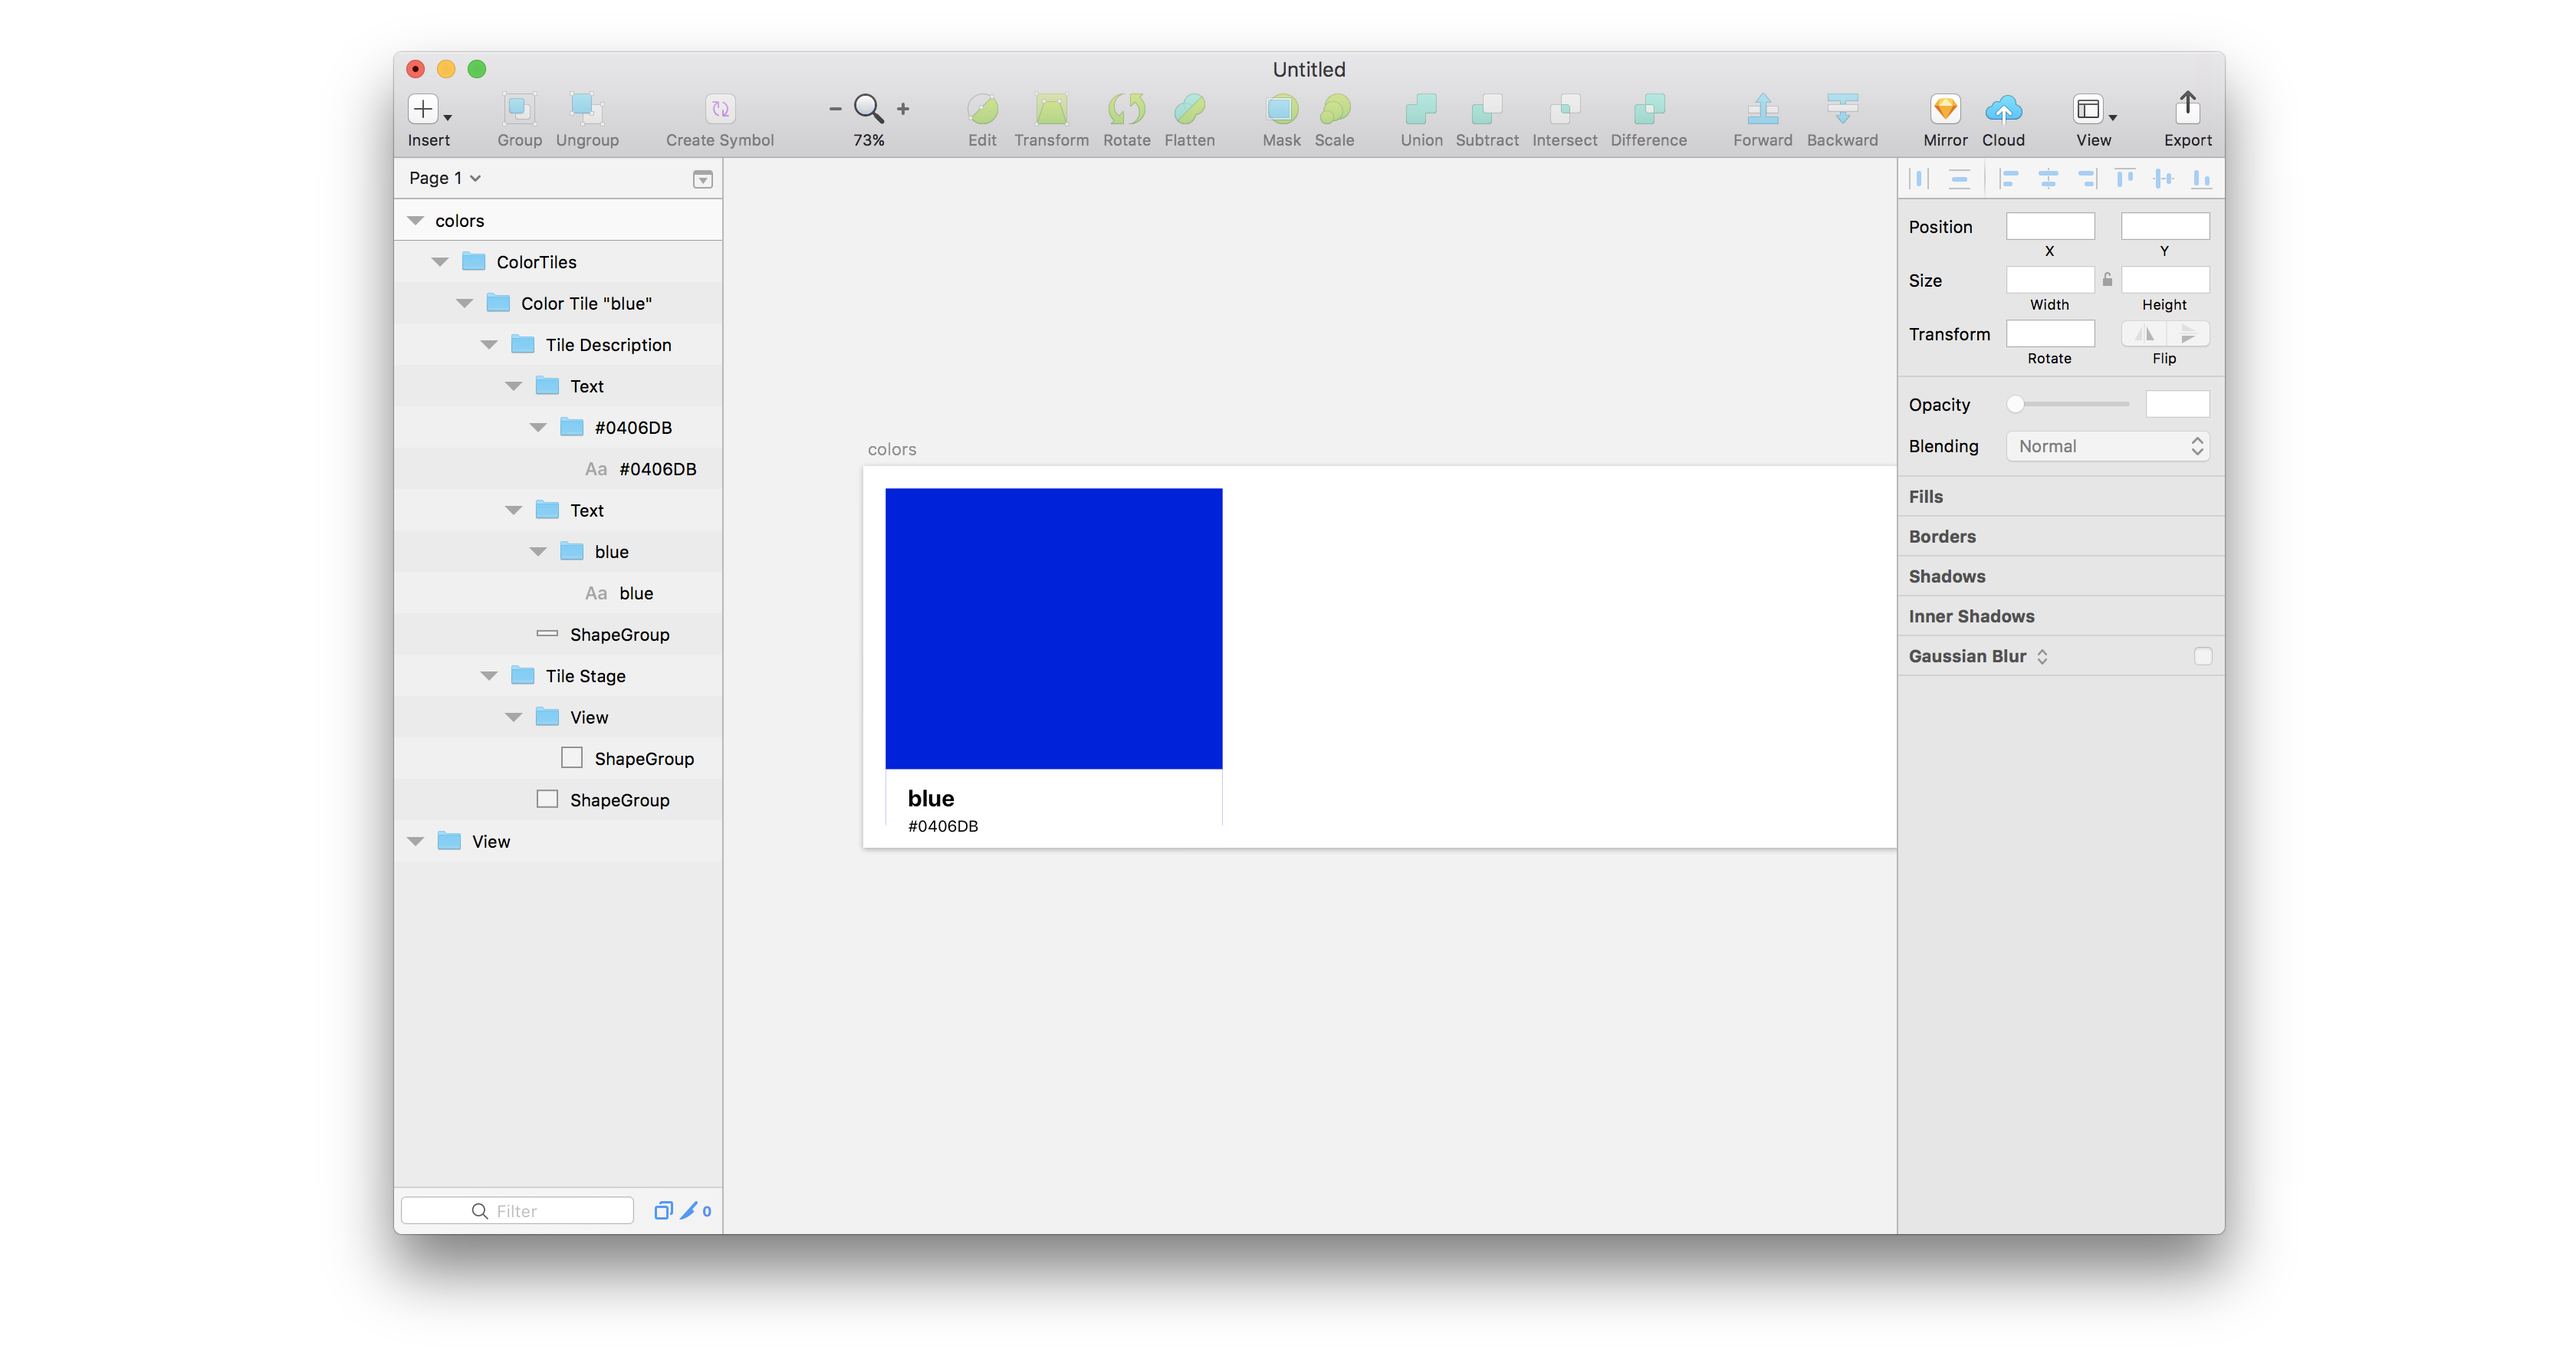
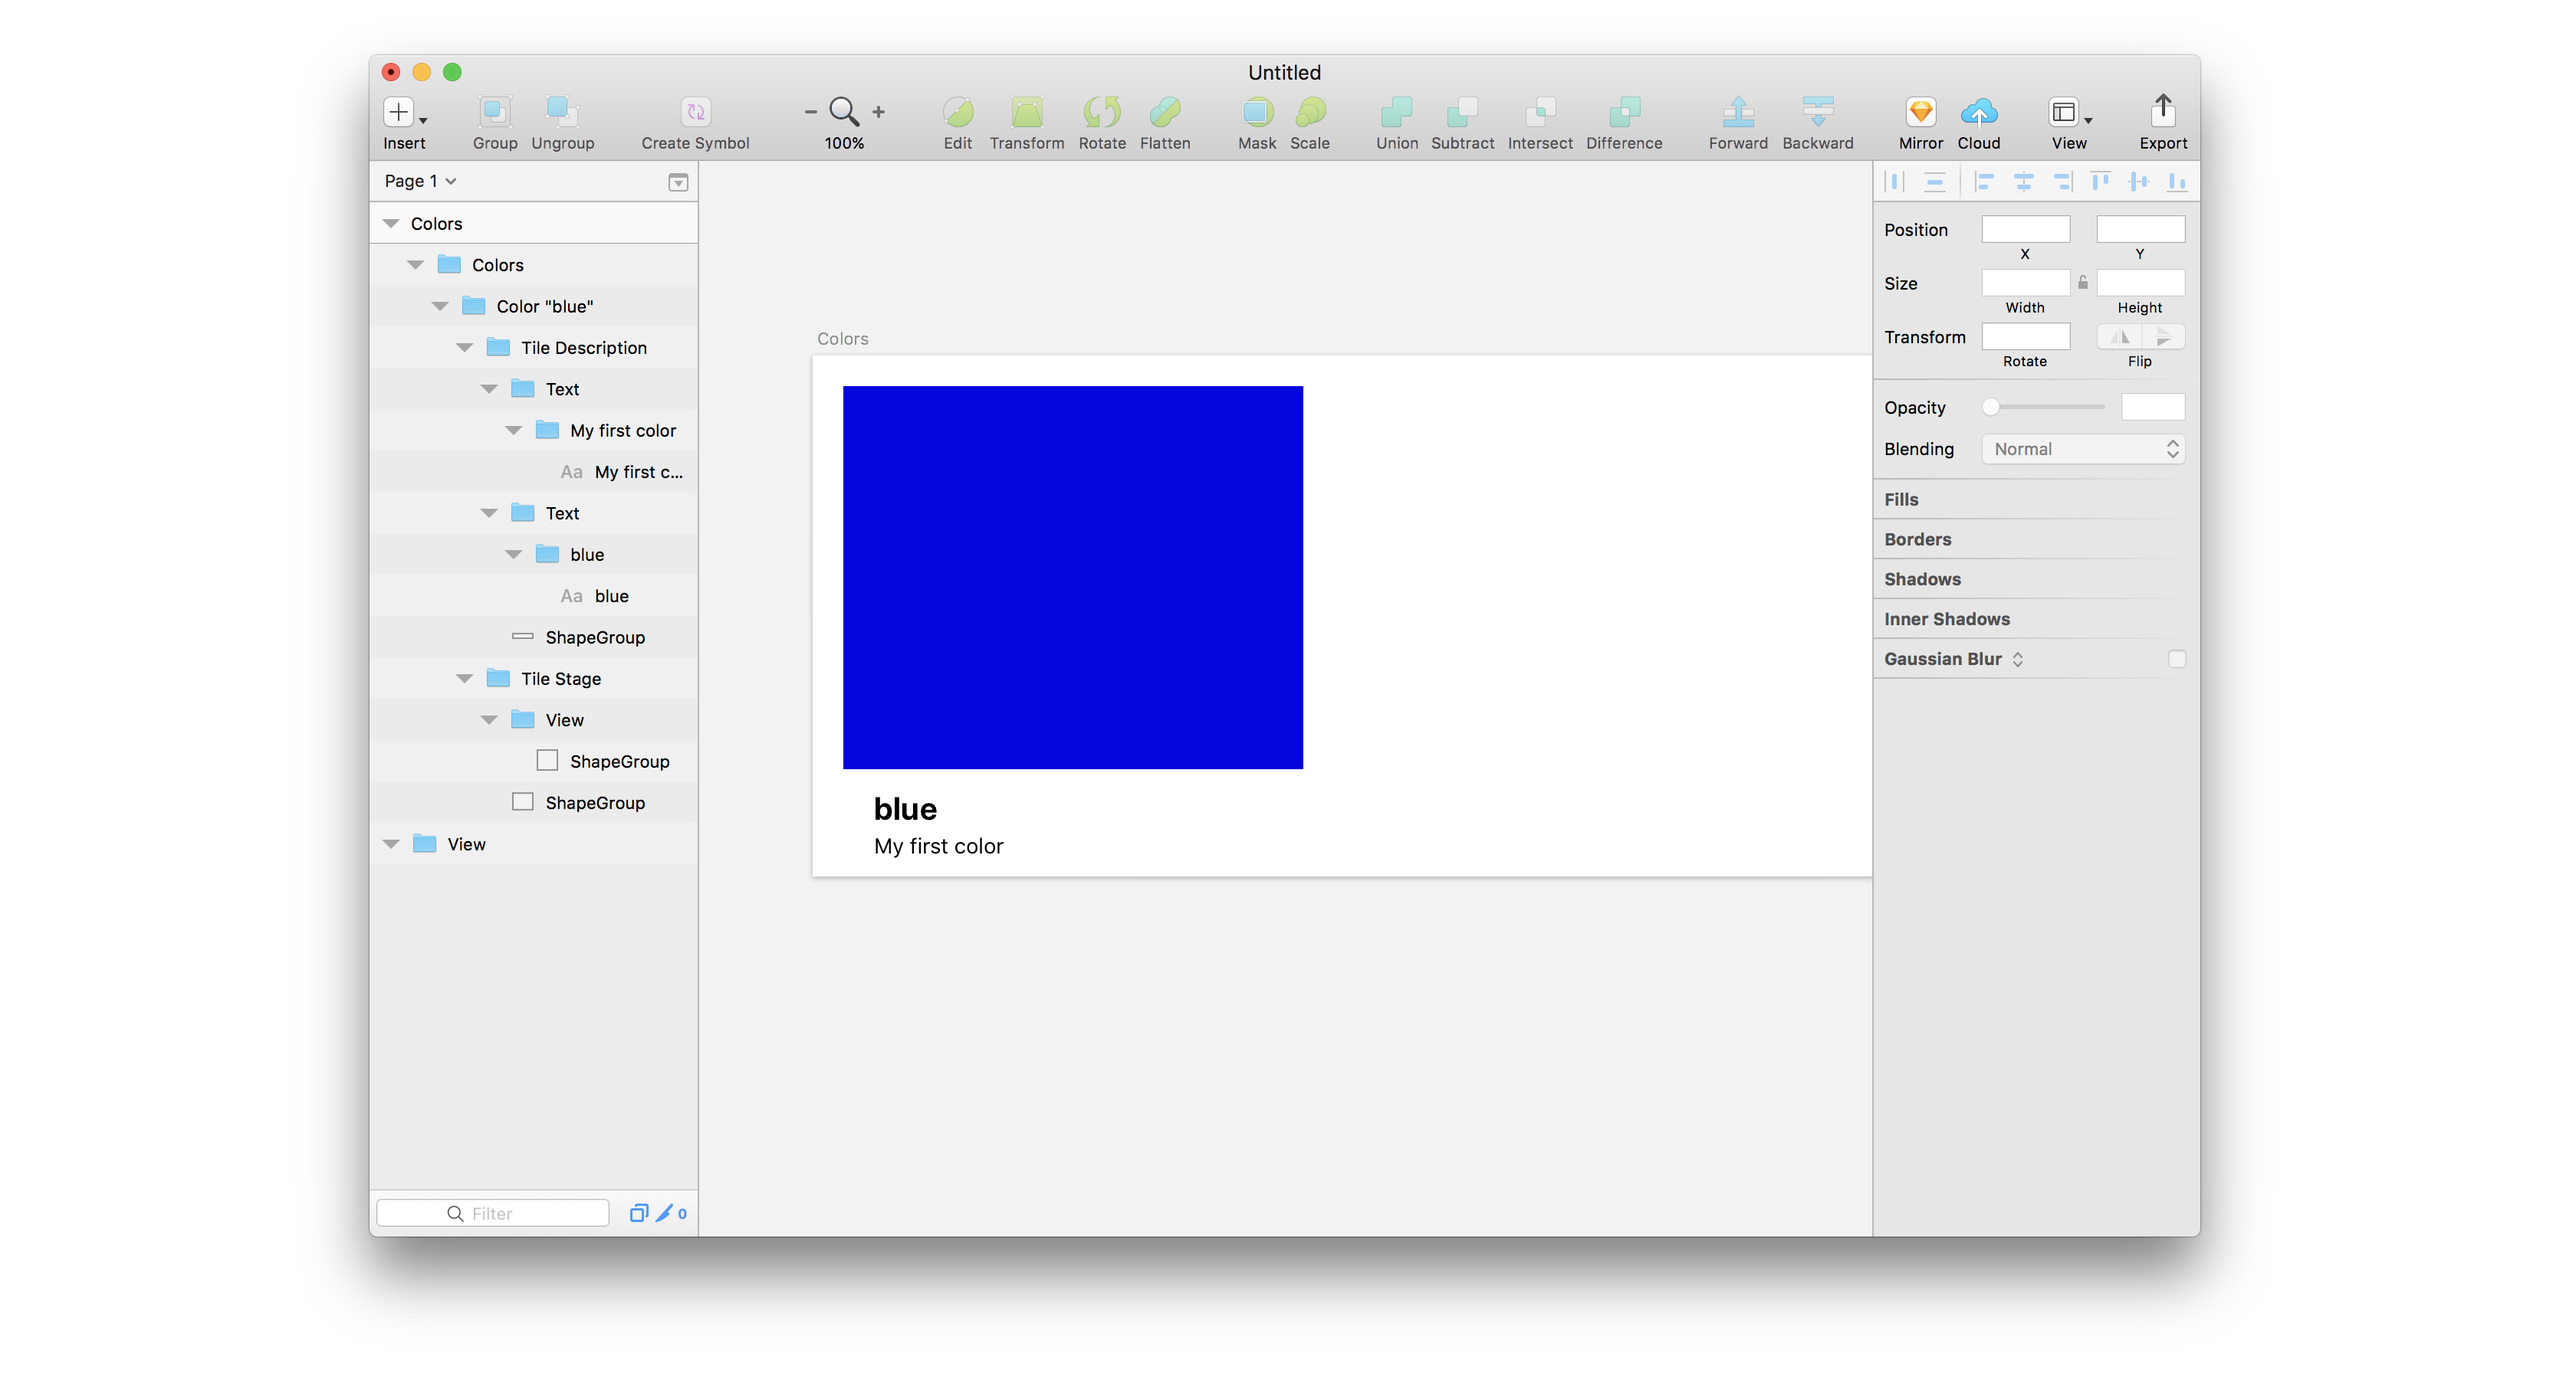
update gitignor, update media file 1,2,3, add image for hierarchy of fonts, addition explanations for getting started and basic guide

Changed region(s): [[0.125, 0.0308, 0.875, 0.9239], [0.3125, 0.2772, 0.8125, 0.6467]]

diff --git a/docs/guides-basic.md b/docs/guides-basic.md
@@ -8,7 +8,7 @@ Text Styles represent bundles of text-related styling such as `font-family`, `li
 
 It may be useful to think of Text Styles as CSS classes specialized and constrained to text-specific properties.
 
-![Font Hierarchy](./_media/font-hierarchy.svg)
+![Font Hierarchy](./_media/fonts-text-hierarchy.png)
 
   ```js
   // in config.js
@@ -34,7 +34,7 @@ It may be useful to think of Text Styles as CSS classes specialized and constrai
 
 ## 2. Make your Text Styles a bit smarter
 
-If you followed along the [Getting started](./guides-getting-started.md) guide you may have noticed that the Text Style CSS styling you maybe noticed that the rendered Text Styles print information that is already contained in lower level tokens, such as `fonts`. In order to hide this information you can use **named values** like this:
+If you followed along the [Getting started](./guides-getting-started.md) guide you may have noticed that the Text Style CSS styling print information that is already contained in lower level tokens, such as `fonts`. In order to hide this information you can use **named values** like this:
 
 ```js
 export default {
@@ -44,9 +44,9 @@ export default {
       {
         name: 'huge',
         value: {
-          fontFamily: {
-            name: 'HNB',
-            value: 'HelveticaNeue-Bold'
+          fontFamily: { // 'named values' example
+            name: 'HNB', // Defines the name of the 'named value'
+            value: 'HelveticaNeue-Bold' // Define the actual value of the 'named value'
           }
         }
       }
@@ -63,7 +63,7 @@ export default {
     name: 'Fonts',
     tokens: [
       {
-        name: 'HNB',
+        name: 'HNB', // Consistant naming
         description: `
           Helvetica Neue
           Bold
@@ -79,7 +79,7 @@ export default {
         name: 'huge',
         value: {
           fontFamily: {
-            name: 'HNB',
+            name: 'HNB', // Consistant naming
             value: 'HelveticaNeue-Bold'
           },
           fontSize: 60
@@ -93,7 +93,7 @@ export default {
 As `config.js` contains JavaScript you can couple the tokens explicitly for greater consistency:
 
 ```js
-const HNB = {
+const HNB = { // Define a variable you want to use in more than one token
   name: 'HNB',
   value: 'HelveticaNeue-Bold'
 };
@@ -103,7 +103,8 @@ export default {
     name: 'Fonts',
     tokens: [
       {
-        ...HNB,
+        name: HNB.name, // refer to variable
+        value: HNB.value, // refer to variable
         description: `
           Helvetica Neue
           Bold
@@ -117,7 +118,7 @@ export default {
       {
         name: 'huge',
         value: {
-          fontFamily: HNB,
+          fontFamily: HNB, // refer to variable
           fontSize: 60
         }
       }

diff --git a/docs/guides-getting-started.md b/docs/guides-getting-started.md
@@ -86,15 +86,17 @@ If everything works a new, empty Sketch document opens and your terminal prints 
       tokens: [
         {
           name: 'blue', // Define the name of this color
+          description: 'My first color', // Optionally define a description for this color
           value: '#0406DB' // Define the actual color value used for the color tile
         },
         {
           name: 'red', // Define the name of this color
+          description: 'This is the red for errors', // Optionally define a description for this color
           value: '#bc0021' // Define the actual color value used for the color tile
         }
       ]
     }
-  }
+  };
   ```
 
   ![Rendered Color Tile](./_media/02.png)
@@ -113,10 +115,12 @@ If everything works a new, empty Sketch document opens and your terminal prints 
       tokens: [
         {
           name: 'blue',
+          description: 'My first color',
           value: '#0406DB'
         },
         {
           name: 'red',
+          description: 'This is the red for errors',
           value: '#bc0021'
         }
       ]
@@ -125,9 +129,9 @@ If everything works a new, empty Sketch document opens and your terminal prints 
       name: 'fonts', // Sets the name of the artboard
       tokens: [
         {
-          name: 'Helvetica Neue',
-          description: 'bold',
-          value: 'HelveticaNeue-Bold'
+          name: 'Helvetica Neue', // Define the name of this font
+          description: 'bold', // Optionally define a description for this font
+          value: 'HelveticaNeue-Bold' // Insert PostScript-Name to define the actual font used for the font tile
         }
       ]
     }
@@ -190,6 +194,9 @@ If everything works a new, empty Sketch document opens and your terminal prints 
     }
   };
   ```
+
+  ?> In this token we used for the key: **value** a `number` and not a `string`. The `number` will be interpreted as a pixel value like in CSS.
+
 **Tipp:** Sketch does not automatically zoom to the new Artboard. Use `⌘ + 1` to see all Artboards on the current page.
 
 ![Rendered Color Tile](./_media/04.png)
